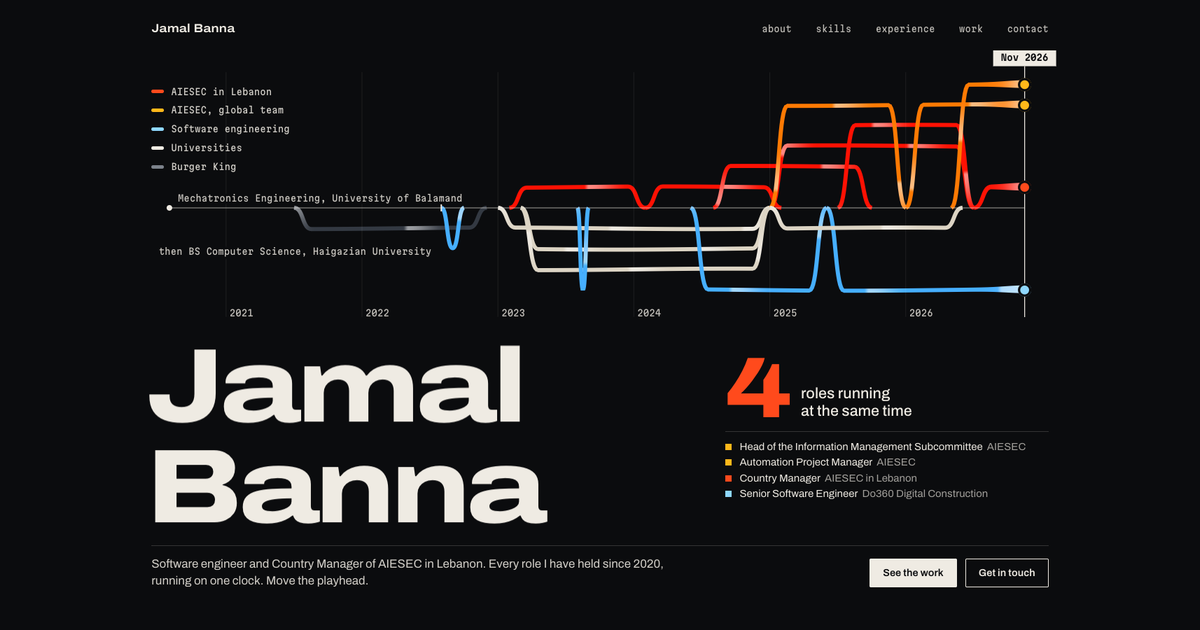
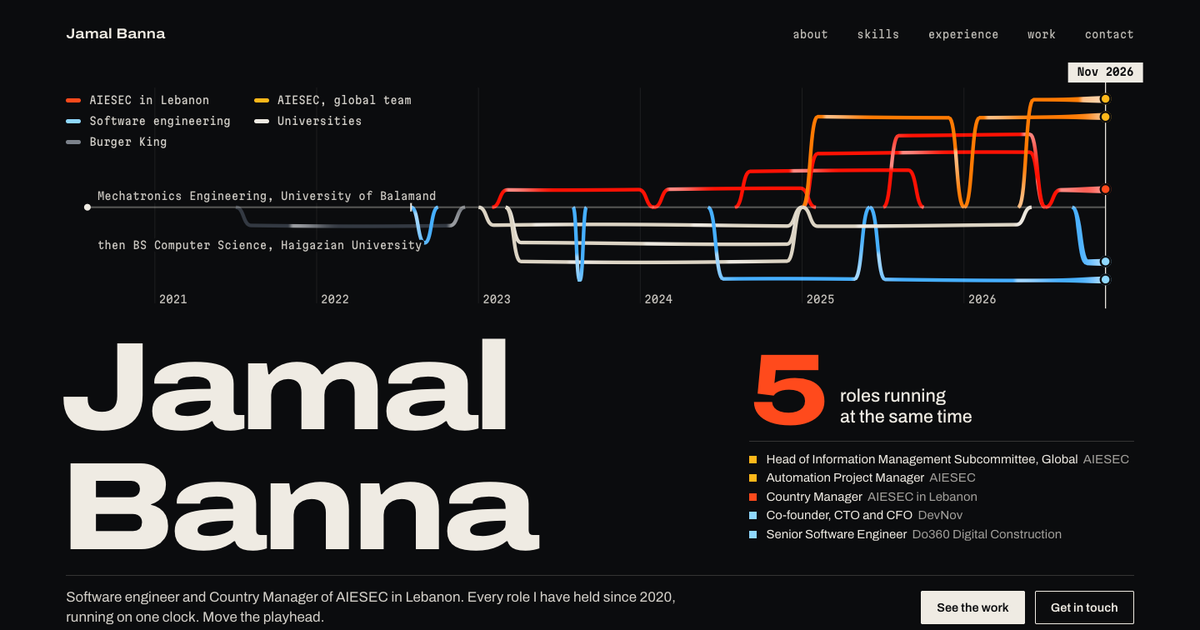
Fix hero legend collision on short laptop screens, stat label alignment, refresh share image

diff --git a/src/graph.js b/src/graph.js
@@ -88,7 +88,9 @@ export function renderGraph(svg, w, h, { small = false } = {}) {
     const xs = g.tx(ym(...e1.start));
     s += `<text x="${g.tx(T_FIRST) + 12}" y="${g.y0 - 9}" class="g-mono" font-size="13" fill="${BONE}" fill-opacity=".84" stroke="#0B0C0E" stroke-width="7" stroke-linejoin="round" paint-order="stroke">${e0.what}, ${e0.where}</text>`;
     s += `<line x1="${xs}" y1="${g.y0 - 5}" x2="${xs}" y2="${g.y0 + 5}" stroke="${BONE}" stroke-width="2"/>`;
-    s += `<text x="${xs - 14}" y="${g.y0 + g.pitch * 2.3}" text-anchor="end" class="g-mono" font-size="13" fill="${BONE}" fill-opacity=".84" stroke="#0B0C0E" stroke-width="7" stroke-linejoin="round" paint-order="stroke">then ${e1.what}, ${e1.where}</text>`;
+    // anchor the label's end at the switch; if it would run past the start of the clock, start it there instead
+    const thenLabel = `then ${e1.what}, ${e1.where}`, fits = xs - 14 - thenLabel.length * 8.4 >= g.tx(T_FIRST);
+    s += `<text x="${fits ? xs - 14 : g.tx(T_FIRST) + 12}" y="${g.y0 + g.pitch * 2.3}" text-anchor="${fits ? 'end' : 'start'}" class="g-mono" font-size="13" fill="${BONE}" fill-opacity=".84" stroke="#0B0C0E" stroke-width="7" stroke-linejoin="round" paint-order="stroke">then ${e1.what}, ${e1.where}</text>`;
   }
   let roles = '', ends = '';
   for (const r of DATED) {

diff --git a/src/style.css b/src/style.css
@@ -675,3 +675,10 @@ h2.is-in .h2-edge { opacity: 0; }
 .frame { border-style: solid; border-color: color-mix(in srgb, var(--c) 40%, transparent); background: color-mix(in srgb, var(--c) 4%, transparent); }
 .frame-bar { border-bottom-style: solid; border-bottom-color: color-mix(in srgb, var(--c) 40%, transparent); color: var(--c); }
 .frame-body { padding-bottom: 18px; }
+
+/* ---------- round 12: stat labels sit right under their number, even when a neighbour's label wraps */
+.panel.framed .figures li { align-content: start; }
+/* short laptop screens (1366x768, 1280x720): the stacked legend ran into the first education label; two columns keep it clear */
+@media (min-width: 701px) and (max-height: 880px) {
+  .hero-graph .legend { grid-template-columns: repeat(2, auto); justify-content: start; column-gap: 28px; row-gap: 6px; }
+}

diff --git a/cook/ROUNDS.md b/cook/ROUNDS.md
@@ -368,3 +368,14 @@ Final desktop run: see cook/stills/final/. Total working time about 165 of 180 m
 - DevNov dated September 2026 ("September 2026", user). Now on the clock; hero counts 5 roles today.
 - User: no screenshots. Work frames are now permanent thread panels (solid border in the project colour, no hatch, no "no screens yet" note). "Screens" removed from DevNov's missing list.
 - Checks: desktop and phone 60 fps, 0 frames over 20 ms, no console errors, overflow 0, hero count 5 on both sizes, build passes.
+
+## Round 12 (full UI review, 11-24)
+
+Asked by Jamal: "review the full ui check if something might" (be broken). Usage 6% of the 5-hour window at the start, so no critic subagents; review by the test tools plus a look at every still.
+Found and fixed:
+- Hero on short laptop screens (1280x720, 1366x768, 1200x630, 1024x700): the stacked legend's last row ("Burger King") ran into the "Mechatronics Engineering" label. Legend now uses two columns when the viewport is 880 px tall or less. At 1024x700 the "then BS Computer Science" label ran 53 px off the left edge; it now starts at the clock's start when it would not fit. Checked by a text-overlap and off-screen probe at 7 sizes: 0 overlaps, 0 off-screen.
+- Work panel stats: a one-line label sat lower than its two-line neighbour (grid row stretch). Fixed with align-content: start.
+- Share image (public/og.png) was stale: 4 roles, no DevNov, old title. Recaptured at 1440x756 with the cursor hidden, scaled to 1200x630.
+Checked, not a bug: a "Skip to content" button in the phone experience stills comes from stitched element screenshots; in a real phone viewport it stays hidden (top -80 px).
+Measured after the fixes: desktop and phone 60 fps, at most 1 frame over 20 ms; overflow 0; no console errors; keyboard playhead works; nav returns after a fast flick; build passes.
+Not checked: real phone, Safari, Firefox (still open).
